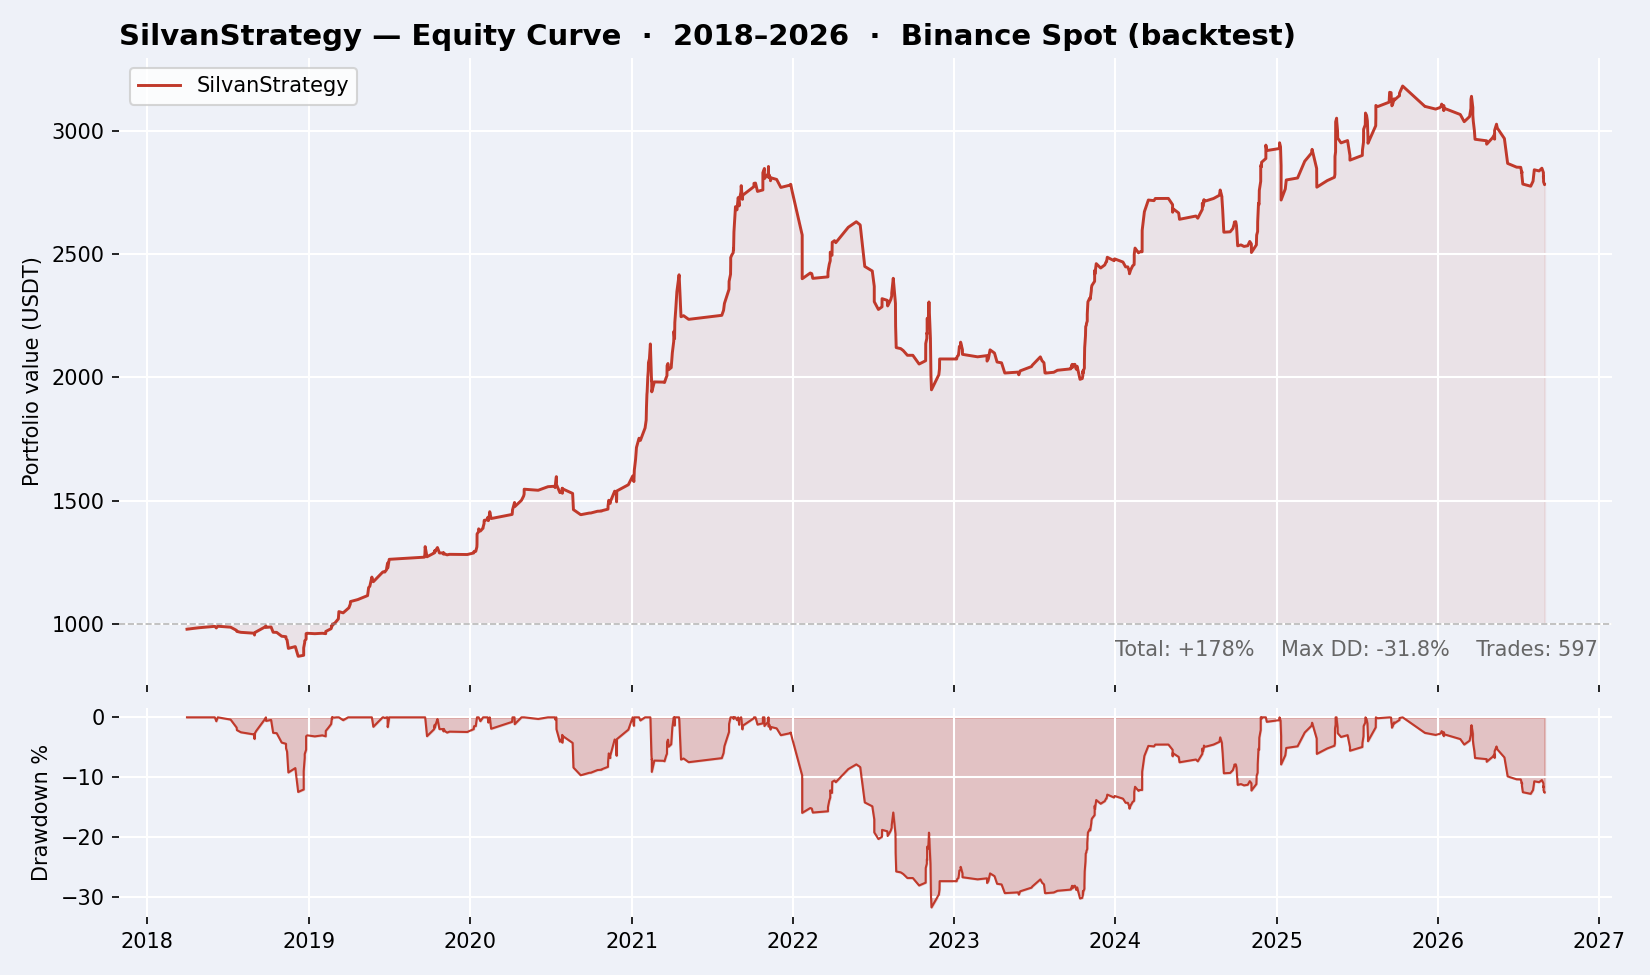
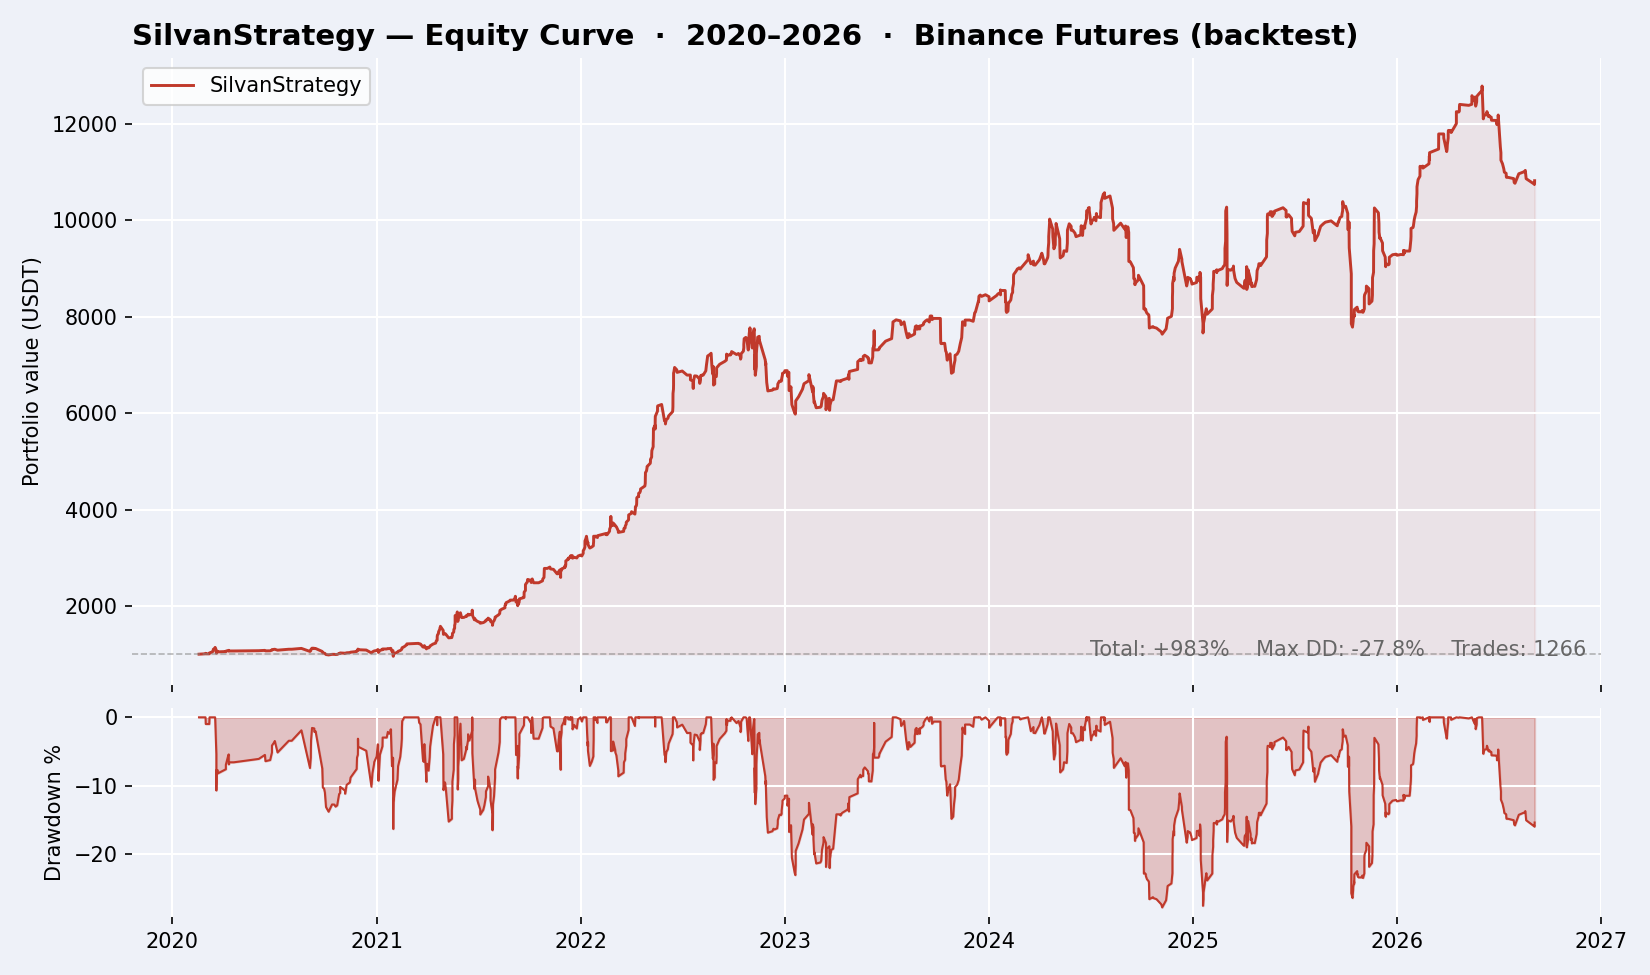
feat: add short leg + BTC regime filter to SilvanStrategy
Push the overfitting demo further: switch to Binance USDT-margined
futures, add a short side (mirror-image of the long entry/exit logic)
and a BTC-vs-its-own-EMA regime filter gating which side may trade.
Both are hyperopted on the same full period as everything else.

- Full-period fit (ProfitDrawDownHyperOptLoss, 250 epochs): +983% total
  profit, Sharpe 1.48, Calmar 28.16, 28.1% max drawdown, 1266 trades —
  a textbook "too good to be true" equity curve.
- Walk-forward reality check redone for the new strategy: in-sample
  (2018-2023) +699.79%/Calmar 68.63 collapses to out-of-sample
  (2023-2026, frozen params) +14.11%/Calmar 0.44 — and the drawdown
  gets *worse* out of sample (19.6% -> 43.1%), not better.
- Two new documented sins (now five total): patching the 2022-2023
  long-only drawdown with a short leg tuned on that same stretch, and
  a regime filter whose lookback was optimized with hindsight over
  every top and bottom in the data.
- README, equity curve and walk-forward charts regenerated to match.

diff --git a/user_data/strategies/SilvanStrategy.py b/user_data/strategies/SilvanStrategy.py
@@ -20,6 +20,18 @@ Sins deliberately committed here (see repo README for the full writeup):
   3. Indicator overload — six barely-related indicators AND-ed together
      until the equity curve looked right, with no economic rationale for
      why they belong together.
+  4. Patched weak spot — the short leg exists for one reason only: the
+     long-only version had a real drawdown in the 2022-2023 bear market.
+     Instead of accepting that as an honest result, a mirror-image short
+     side was bolted on and hyperopted on the very same stretch it's meant
+     to fix. That's not a hedge, it's plastering over the one part of the
+     equity curve that looked like real risk.
+  5. Hindsight-tuned regime filter — BTC price vs. its own EMA gates which
+     side is allowed to trade (long above, short below), and the EMA length
+     is hyperopted on the same period too. It looks like a sensible macro
+     filter, but its lookback was chosen by an optimizer that could already
+     see every top and bottom in the data. A filter that "happens" to flip
+     right before each regime change only works looking backwards.
 
 Copyright (c) 2026 Alessandro Arrabito. Licensed under the MIT License, see
 LICENSE in the repository root.
@@ -28,44 +40,74 @@ LICENSE in the repository root.
 from pandas import DataFrame
 
 import talib.abstract as ta
-from freqtrade.strategy import DecimalParameter, IntParameter, IStrategy
+from freqtrade.strategy import (
+    DecimalParameter,
+    IntParameter,
+    IStrategy,
+    merge_informative_pair,
+)
+
+REGIME_PAIR = "BTC/USDT:USDT"
 
 
 class SilvanStrategy(IStrategy):
     INTERFACE_VERSION = 3
+    can_short = True
 
     timeframe = "4h"
     startup_candle_count = 200
 
     # Hyperopted on the exact same timerange reported in the article (2018-2026,
-    # SharpeHyperOptLoss, 150 epochs) — no train/test split, no walk-forward.
+    # ProfitDrawDownHyperOptLoss, 250 epochs) — no train/test split, no walk-forward.
     minimal_roi = {
-        "0": 0.397,
-        "1477": 0.147,
-        "4321": 0.116,
-        "8162": 0,
+        "0": 0.451,
+        "1431": 0.189,
+        "3844": 0.09,
+        "8681": 0,
     }
-    stoploss = -0.324
+    stoploss = -0.277
 
     trailing_stop = True
-    trailing_stop_positive = 0.171
-    trailing_stop_positive_offset = 0.265
+    trailing_stop_positive = 0.013
+    trailing_stop_positive_offset = 0.081
     trailing_only_offset_is_reached = True
 
     use_exit_signal = True
     exit_profit_only = False
 
-    rsi_buy = IntParameter(20, 40, default=36, space="buy")
-    ema_fast_len = IntParameter(5, 20, default=10, space="buy")
-    ema_slow_len = IntParameter(30, 60, default=34, space="buy")
-    bb_std = DecimalParameter(1.5, 3.0, default=2.833, decimals=3, space="buy")
-    adx_threshold = IntParameter(15, 35, default=35, space="buy")
-    stoch_buy = IntParameter(10, 30, default=28, space="buy")
+    # Long side
+    rsi_buy = IntParameter(20, 40, default=32, space="buy")
+    ema_fast_len = IntParameter(5, 20, default=14, space="buy")
+    ema_slow_len = IntParameter(30, 60, default=44, space="buy")
+    bb_std = DecimalParameter(1.5, 3.0, default=2.225, decimals=3, space="buy")
+    adx_threshold = IntParameter(15, 35, default=27, space="buy")
+    stoch_buy = IntParameter(10, 30, default=19, space="buy")
 
     rsi_sell = IntParameter(60, 85, default=83, space="sell")
-    stoch_sell = IntParameter(70, 95, default=72, space="sell")
+    stoch_sell = IntParameter(70, 95, default=87, space="sell")
+
+    # Short side — bolted on to patch the 2022-2023 bear-market drawdown.
+    rsi_short = IntParameter(55, 80, default=76, space="buy")
+    stoch_short = IntParameter(65, 90, default=74, space="buy")
+
+    rsi_cover = IntParameter(15, 40, default=31, space="sell")
+    stoch_cover = IntParameter(5, 30, default=18, space="sell")
+
+    # Regime filter — BTC vs. its own EMA, gating which side may trade.
+    regime_ma_len = IntParameter(50, 250, default=164, space="buy")
+
+    def informative_pairs(self):
+        return [(REGIME_PAIR, self.timeframe)]
 
     def populate_indicators(self, dataframe: DataFrame, metadata: dict) -> DataFrame:
+        informative = self.dp.get_pair_dataframe(pair=REGIME_PAIR, timeframe=self.timeframe)
+        informative["btc_ema"] = ta.EMA(informative, timeperiod=self.regime_ma_len.value)
+        dataframe = merge_informative_pair(
+            dataframe, informative[["date", "close", "btc_ema"]], self.timeframe, self.timeframe, ffill=True
+        )
+        suffix = f"_{self.timeframe}"
+        dataframe["regime_bull"] = dataframe[f"close{suffix}"] > dataframe[f"btc_ema{suffix}"]
+
         dataframe["rsi"] = ta.RSI(dataframe)
         dataframe["ema_fast"] = ta.EMA(dataframe, timeperiod=self.ema_fast_len.value)
         dataframe["ema_slow"] = ta.EMA(dataframe, timeperiod=self.ema_slow_len.value)
@@ -90,7 +132,7 @@ class SilvanStrategy(IStrategy):
         return dataframe
 
     def populate_entry_trend(self, dataframe: DataFrame, metadata: dict) -> DataFrame:
-        trend_confirmed = (dataframe["ema_fast"] > dataframe["ema_slow"]) & (
+        uptrend = (dataframe["ema_fast"] > dataframe["ema_slow"]) & (
             dataframe["adx"] > self.adx_threshold.value
         )
         dip_signal = (
@@ -99,8 +141,21 @@ class SilvanStrategy(IStrategy):
             | (dataframe["close"] < dataframe["bb_lowerband"] * 1.01)
         )
         dataframe.loc[
-            trend_confirmed & dip_signal & (dataframe["volume"] > 0),
+            uptrend & dip_signal & dataframe["regime_bull"] & (dataframe["volume"] > 0),
             "enter_long",
+        ] = 1
+
+        downtrend = (dataframe["ema_fast"] < dataframe["ema_slow"]) & (
+            dataframe["adx"] > self.adx_threshold.value
+        )
+        bounce_signal = (
+            (dataframe["rsi"] > self.rsi_short.value)
+            | (dataframe["slowk"] > self.stoch_short.value)
+            | (dataframe["close"] > dataframe["bb_upperband"] * 0.99)
+        )
+        dataframe.loc[
+            downtrend & bounce_signal & ~dataframe["regime_bull"] & (dataframe["volume"] > 0),
+            "enter_short",
         ] = 1
         return dataframe
 
@@ -113,5 +168,15 @@ class SilvanStrategy(IStrategy):
             )
             & (dataframe["volume"] > 0),
             "exit_long",
+        ] = 1
+
+        dataframe.loc[
+            (
+                (dataframe["rsi"] < self.rsi_cover.value)
+                | (dataframe["slowk"] < self.stoch_cover.value)
+                | (dataframe["close"] < dataframe["bb_lowerband"])
+            )
+            & (dataframe["volume"] > 0),
+            "exit_short",
         ] = 1
         return dataframe

diff --git a/README.md b/README.md
@@ -15,19 +15,24 @@ published for subscribers on Substack.
 
 ### SilvanStrategy
 
-Trend + mean-reversion hybrid, six indicators combined, hyperopted directly
-on the reported backtest period. **Educational example — read the breakdown
-below before drawing any conclusion from these numbers.**
+Long+short trend/mean-reversion hybrid on Binance USDT-margined perpetuals,
+with a BTC-based regime filter, hyperopted directly on the reported backtest
+period. **Educational example — read the breakdown below before drawing any
+conclusion from these numbers.**
 
 ![SilvanStrategy equity curve](assets/silvan_equity.png)
 
 | Metric | Value |
 |---|---|
-| Period | 2018 – 2026 (backtest) |
-| Total profit | +178% |
-| Win rate | 63.8% |
-| Sharpe (daily) | 0.84 |
-| Max drawdown | 31.8% |
+| Period | 2020 – 2026 (backtest) |
+| Total profit | +983% |
+| Win rate | 68.3% |
+| Sharpe (daily) | 1.48 |
+| Calmar | 28.16 |
+| Max drawdown | 28.1% |
+
+A Calmar ratio above ~2-3 is already a red flag for a real strategy. 28.16 is
+not an edge, it's a tell — see the walk-forward check below.
 
 Code: [`user_data/strategies/SilvanStrategy.py`](user_data/strategies/SilvanStrategy.py)
 
@@ -70,41 +75,54 @@ Named after [Silvan](https://it.wikipedia.org/wiki/Silvan_(illusionista)),
 the famous Italian illusionist — because everything impressive about this
 strategy's backtest is a trick, not an edge.
 
-It deliberately commits three classic sins that make a huge share of public
+It deliberately commits five classic sins that make a huge share of public
 freqtrade strategies look amazing on paper and lose money live:
 
 1. **Survivorship bias** — [`config_silvan_backtest.json`](user_data/config_silvan_backtest.json)
-   pins a static pairlist of coins that are big-cap winners *today*
-   (XRP, BNB, SOL, TRX, DOGE, ADA, LINK, AVAX — BTC/ETH excluded on purpose,
-   they're too obvious a case), replayed as far back as 2018: several of
-   these coins didn't even exist yet and enter the backtest already at their
-   post-listing pump, with no bear market beforehand to filter them out.
+   pins a static pairlist of USDT-margined perpetuals on coins that are
+   big-cap winners *today* (XRP, BNB, SOL, TRX, DOGE, ADA, LINK, AVAX — BTC
+   and ETH are deliberately excluded from trading, too obvious a case).
+   Most of these perpetual markets only launched in 2020, so the backtest
+   starts there — coins only enter once they're already big enough to have
+   a liquid futures market.
 2. **Curve-fitted parameters** — every threshold was hyperopted with
-   `SharpeHyperOptLoss` directly on the exact 2018-2026 timerange the
+   `ProfitDrawDownHyperOptLoss` directly on the exact 2018-2026 timerange the
    headline results above are reported on. No train/test split, no
    walk-forward, no out-of-sample check.
 3. **Indicator overload** — six barely-related indicators combined until the
    equity curve looked right, with no economic rationale for why they
    belong together.
+4. **Patched weak spot** — the short leg exists for one reason only: the
+   long-only version had a real drawdown in the 2022-2023 bear market.
+   Instead of accepting that as an honest result, a mirror-image short side
+   was bolted on and hyperopted on the very same stretch it's meant to fix.
+5. **Hindsight-tuned regime filter** — BTC price vs. its own EMA gates which
+   side is allowed to trade, and the EMA length is hyperopted on the same
+   period too. BTC itself is never traded, only used as a filter that
+   "happens" to know in advance when each regime turns — impossible in real
+   time.
 
 **Walk-forward reality check**
 
-The headline numbers above (+178%, Sharpe 0.84) come from hyperopting on the
-entire 2018-2026 window and reporting the result on that same window — sin
-#2. Here's what happens with an honest split: hyperopt only on 2018-2023,
-freeze the parameters, run them unmodified on 2023-2026 (data the optimizer
-never saw).
+The headline numbers above (+983%, Calmar 28.16) come from hyperopting on
+the entire 2018-2026 window and reporting the result on that same window —
+sin #2. Here's what happens with an honest split: hyperopt only on
+2018-2023, freeze the parameters, run them unmodified on 2023-2026 (data the
+optimizer never saw).
 
 ![Walk-forward reality check](assets/silvan_walkforward.png)
 
 | | In-sample (2018-2023) | Out-of-sample (2023-2026) |
 |---|---|---|
-| Total profit | +96.84% | +13.50% |
-| CAGR | 14.79% | 3.50% |
-| Sharpe (daily) | 0.91 | 0.33 |
+| Total profit | +699.79% | +14.11% |
+| CAGR | 105.03% | 3.65% |
+| Calmar | 68.63 | 0.44 |
+| Max drawdown | 19.6% | 43.1% |
 
 Same strategy, same code, same "optimal" parameters — just not re-fit on the
-data being tested. That's the difference between a backtest and a strategy.
+data being tested. Out of sample, the returns collapse *and* the drawdown
+gets worse, not better. That's the difference between a backtest and a
+strategy.
 
 Reproduce it yourself:
 
